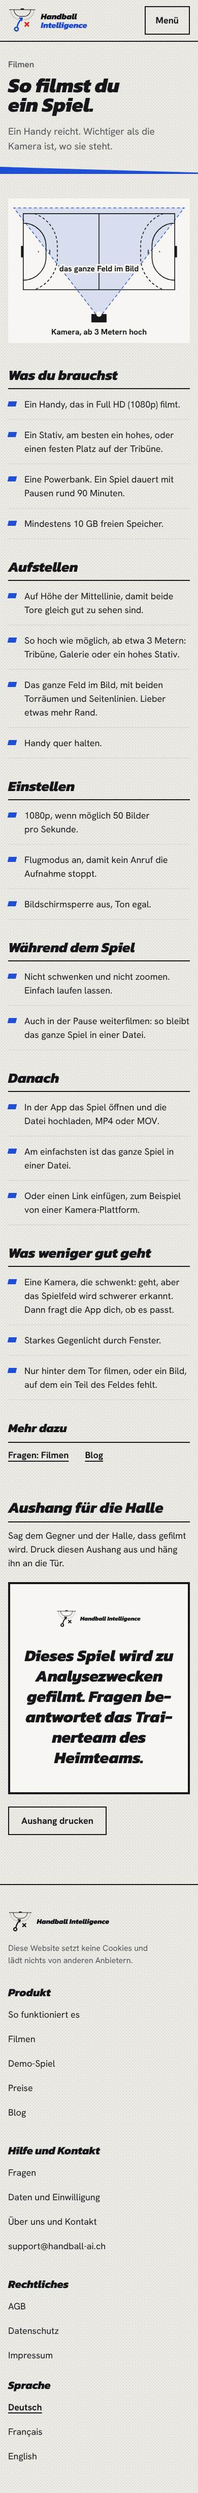
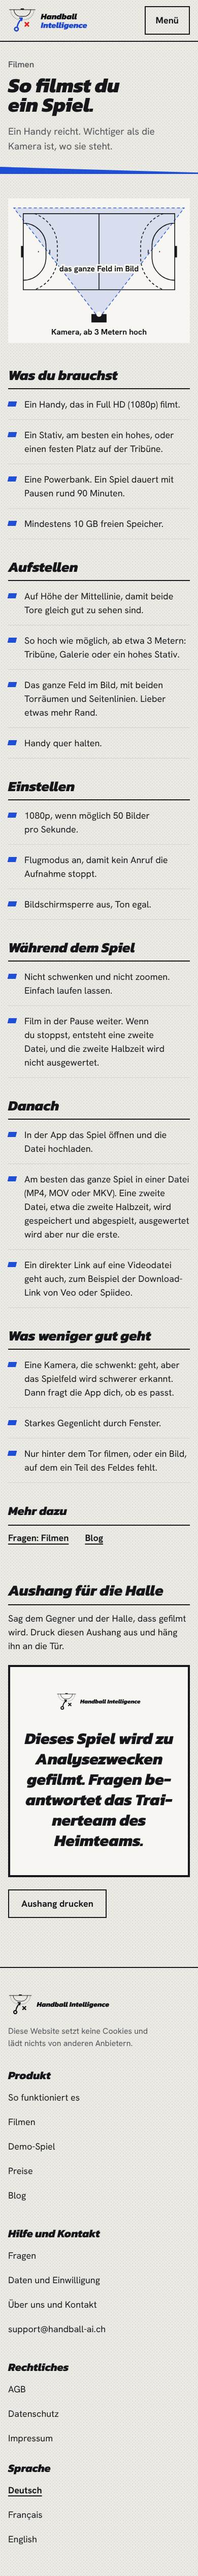
Site: the confirmed rule for video files everywhere
«Am besten das ganze Spiel in einer Datei (MP4, MOV oder MKV). Eine zweite Datei, etwa die zweite
Halbzeit, wird gespeichert und abgespielt, ausgewertet wird aber nur die erste.» on questions,
filming and both guides, in three languages; «Film in der Pause weiter …» on the filming page;
direct links to a video file (Veo, Spiideo); «Ein Spiel aus zwei Dateien auswerten» under «Das
noch nicht».

Claude-Session: https://claude.ai/code/session_01H3gogAnaG8pbb1EUQhspxs

diff --git a/apps/site/src/messages/fr.ts b/apps/site/src/messages/fr.ts
@@ -154,6 +154,7 @@ const fr: Messages = {
       "Reconnaître les arrêts et les tirs manqués. Tu les marques à la main si tu les veux.",
       "Reconnaître les buts à partir de l'image seule, sans feuille de match ni affichage du score.",
       "Mesurer exactement les distances parcourues. Avec une seule caméra, ce sont des estimations.",
+      "Analyser un match composé de deux fichiers.",
     ],
     note: "Ce qui est estimé est dessiné en pointillé et marqué « estimé ».",
   },
@@ -168,7 +169,7 @@ const fr: Messages = {
       },
       {
         title: "Téléverser",
-        text: "Dans l'app, tu choisis le fichier vidéo tel que le téléphone l'a enregistré, en général MP4 ou MOV. Si la connexion coupe, l'envoi reprend la fois suivante là où il s'était arrêté. Les gros fichiers passent mieux en wifi.",
+        text: "Dans l'app, tu choisis le fichier vidéo idéalement tout le match dans un seul fichier (MP4, MOV ou MKV). Si la connexion coupe, l'envoi reprend la fois suivante là où il s'était arrêté. Les gros fichiers passent mieux en wifi.",
       },
       {
         title: "L'analyse calcule",
@@ -230,15 +231,15 @@ const fr: Messages = {
         title: "Pendant le match",
         items: [
           "Ne pas faire de panoramique ni zoomer. Laisser tourner.",
-          "Continuer à filmer pendant la pause : ainsi tout le match reste dans un seul fichier.",
+          "Continue à filmer pendant la pause. Si tu arrêtes, un deuxième fichier se crée, et la deuxième mi-temps n'est pas analysée.",
         ],
       },
       {
         title: "Après",
         items: [
-          "Ouvrir le match dans l'app et téléverser le fichier, MP4 ou MOV.",
-          "Le plus simple : tout le match dans un seul fichier.",
-          "Ou coller un lien, par exemple d'une plateforme de caméra.",
+          "Ouvrir le match dans l'app et téléverser le fichier.",
+          "Le mieux : tout le match dans un seul fichier (MP4, MOV ou MKV). Un deuxième fichier, par exemple la deuxième mi-temps, est enregistré et peut être lu, mais seul le premier est analysé.",
+          "Un lien direct vers un fichier vidéo va aussi, par exemple le lien de téléchargement de Veo ou de Spiideo.",
         ],
       },
       {
@@ -335,7 +336,7 @@ const fr: Messages = {
     items: [
       { q: "Mon téléphone suffit-il ?", a: "Oui. Tout téléphone qui filme en Full HD (1080p) suffit. L'endroit compte plus que la caméra." },
       { q: "Où placer la caméra ?", a: "À hauteur de la ligne médiane, le plus haut possible, dès 3 mètres environ : tribune, galerie ou trépied haut. Tout le terrain doit être dans l'image, avec les deux zones de but." },
-      { q: "Quel fichier puis-je téléverser ?", a: "Le fichier vidéo tel que le téléphone l'enregistre, en général MP4 ou MOV. Le plus simple : tout le match dans un seul fichier. Un lien vers une plateforme de caméra va aussi." },
+      { q: "Quel fichier puis-je téléverser ?", a: "Le fichier vidéo tel que le téléphone l'enregistre. Le mieux : tout le match dans un seul fichier (MP4, MOV ou MKV). Un deuxième fichier, par exemple la deuxième mi-temps, est enregistré et peut être lu, mais seul le premier est analysé. Un lien direct vers un fichier vidéo va aussi, par exemple le lien de téléchargement de Veo ou de Spiideo." },
       { q: "Combien de temps dure l'analyse ?", a: "Cela dépend de la durée de la vidéo. Pas besoin de rester : tu reçois un e-mail quand les trois points sont prêts." },
       { q: "Dois-je saisir quelque chose à la main ?", a: "Non. Les trois points et les scènes arrivent sans rien taper. Là où l'analyse hésite, elle te pose une courte question. Tu marques les arrêts et les tirs manqués seulement si tu les veux." },
       { q: "Combien ça coûte ?", a: "Une équipe coûte CHF {month} par mois ou CHF {year} par an. Les prix ne sont pas encore définitifs." },

diff --git a/apps/site/src/messages/de.ts b/apps/site/src/messages/de.ts
@@ -152,6 +152,7 @@ const de = {
       "Paraden und Fehlwürfe erkennen. Die markierst du von Hand, wenn du sie willst.",
       "Tore allein aus dem Bild erkennen, wenn es weder Spielbericht noch Anzeige gibt.",
       "Laufdistanzen genau messen. Aus einer Kamera sind es Schätzungen.",
+      "Ein Spiel aus zwei Dateien auswerten.",
     ],
     note: "Was geschätzt ist, zeichnen wir gestrichelt und schreiben «geschätzt» dazu.",
   },
@@ -166,7 +167,7 @@ const de = {
       },
       {
         title: "Hochladen",
-        text: "In der App wählst du die Videodatei, so wie das Handy sie gespeichert hat, meist MP4 oder MOV. Bricht die Verbindung ab, geht der Upload beim nächsten Mal dort weiter. Grosse Dateien lädst du am besten im WLAN hoch.",
+        text: "In der App wählst du die Videodatei, am besten das ganze Spiel in einer Datei (MP4, MOV oder MKV). Bricht die Verbindung ab, geht der Upload beim nächsten Mal dort weiter. Grosse Dateien lädst du am besten im WLAN hoch.",
       },
       {
         title: "Die Analyse rechnet",
@@ -228,15 +229,15 @@ const de = {
         title: "Während dem Spiel",
         items: [
           "Nicht schwenken und nicht zoomen. Einfach laufen lassen.",
-          "Auch in der Pause weiterfilmen: so bleibt das ganze Spiel in einer Datei.",
+          "Film in der Pause weiter. Wenn du stoppst, entsteht eine zweite Datei, und die zweite Halbzeit wird nicht ausgewertet.",
         ],
       },
       {
         title: "Danach",
         items: [
-          "In der App das Spiel öffnen und die Datei hochladen, MP4 oder MOV.",
-          "Am einfachsten ist das ganze Spiel in einer Datei.",
-          "Oder einen Link einfügen, zum Beispiel von einer Kamera-Plattform.",
+          "In der App das Spiel öffnen und die Datei hochladen.",
+          "Am besten das ganze Spiel in einer Datei (MP4, MOV oder MKV). Eine zweite Datei, etwa die zweite Halbzeit, wird gespeichert und abgespielt, ausgewertet wird aber nur die erste.",
+          "Ein direkter Link auf eine Videodatei geht auch, zum Beispiel der Download-Link von Veo oder Spiideo.",
         ],
       },
       {
@@ -333,7 +334,7 @@ const de = {
     items: [
       { q: "Reicht mein Handy?", a: "Ja. Jedes Handy, das in Full HD (1080p) filmt, reicht. Wichtiger als die Kamera ist, wo sie steht." },
       { q: "Wo stelle ich die Kamera hin?", a: "Auf Höhe der Mittellinie, so hoch wie möglich, ab etwa 3 Metern: Tribüne, Galerie oder ein hohes Stativ. Das ganze Feld muss im Bild sein, mit beiden Torräumen." },
-      { q: "Welche Datei kann ich hochladen?", a: "Die Videodatei, so wie das Handy sie speichert, meist MP4 oder MOV. Am einfachsten ist das ganze Spiel in einer Datei. Ein Link zu einer Kamera-Plattform geht auch." },
+      { q: "Welche Datei kann ich hochladen?", a: "Die Videodatei, so wie das Handy sie speichert. Am besten das ganze Spiel in einer Datei (MP4, MOV oder MKV). Eine zweite Datei, etwa die zweite Halbzeit, wird gespeichert und abgespielt, ausgewertet wird aber nur die erste. Ein direkter Link auf eine Videodatei geht auch, zum Beispiel der Download-Link von Veo oder Spiideo." },
       { q: "Wie lange dauert die Analyse?", a: "Das hängt von der Länge des Videos ab. Du musst nicht dabeibleiben: du bekommst eine Mail, wenn die drei Dinge da sind." },
       { q: "Muss ich etwas von Hand eintragen?", a: "Nein. Die drei Dinge und die Szenen kommen ohne Eintippen. Wo die Analyse unsicher ist, fragt sie dich kurz. Paraden und Fehlwürfe markierst du nur, wenn du sie willst." },
       { q: "Was kostet es?", a: "Ein Team kostet CHF {month} im Monat oder CHF {year} im Jahr. Die Preise sind noch nicht endgültig." },

diff --git a/apps/site/src/messages/en.ts b/apps/site/src/messages/en.ts
@@ -154,6 +154,7 @@ const en: Messages = {
       "Detect saves and missed shots. You mark them by hand if you want them.",
       "Detect goals from the picture alone when there is neither a match report nor a score display.",
       "Measure running distances exactly. From one camera they are estimates.",
+      "Analyse a match made of two files.",
     ],
     note: "What is estimated, we draw dashed and label \"estimated\".",
   },
@@ -168,7 +169,7 @@ const en: Messages = {
       },
       {
         title: "Upload",
-        text: "In the app you choose the video file as the phone saved it, usually MP4 or MOV. If the connection drops, the upload continues where it stopped next time. Large files are best uploaded over wifi.",
+        text: "In the app you choose the video file ideally the whole match in one file (MP4, MOV or MKV). If the connection drops, the upload continues where it stopped next time. Large files are best uploaded over wifi.",
       },
       {
         title: "The analysis works",
@@ -230,15 +231,15 @@ const en: Messages = {
         title: "During the match",
         items: [
           "Do not pan and do not zoom. Just let it run.",
-          "Keep filming through half time: then the whole match is in one file.",
+          "Keep filming through half time. If you stop, a second file is made, and the second half is not analysed.",
         ],
       },
       {
         title: "Afterwards",
         items: [
-          "Open the match in the app and upload the file, MP4 or MOV.",
-          "The simplest is the whole match in one file.",
-          "Or paste a link, for example from a camera platform.",
+          "Open the match in the app and upload the file.",
+          "Best is the whole match in one file (MP4, MOV or MKV). A second file, such as the second half, is stored and can be played, but only the first file is analysed.",
+          "A direct link to a video file works too, for example the download link from Veo or Spiideo.",
         ],
       },
       {
@@ -335,7 +336,7 @@ const en: Messages = {
     items: [
       { q: "Is my phone good enough?", a: "Yes. Any phone that films in Full HD (1080p) is enough. Where it stands matters more than the camera." },
       { q: "Where do I put the camera?", a: "Level with the halfway line, as high as possible, from about 3 metres: stands, gallery or a tall tripod. The whole court must be in the picture, with both goal areas." },
-      { q: "Which file can I upload?", a: "The video file as the phone saves it, usually MP4 or MOV. The simplest is the whole match in one file. A link to a camera platform works too." },
+      { q: "Which file can I upload?", a: "The video file as the phone saves it. Best is the whole match in one file (MP4, MOV or MKV). A second file, such as the second half, is stored and can be played, but only the first file is analysed. A direct link to a video file works too, for example the download link from Veo or Spiideo." },
       { q: "How long does the analysis take?", a: "That depends on the length of the video. You need not stay: you get an e-mail when the three things are ready." },
       { q: "Do I have to enter anything by hand?", a: "No. The three things and the scenes come without typing. Where the analysis is unsure, it asks you briefly. You mark saves and missed shots only if you want them." },
       { q: "What does it cost?", a: "One team costs CHF {month} a month or CHF {year} a year. The prices are not final yet." },

diff --git a/docs/site/TEST.md b/docs/site/TEST.md
@@ -124,6 +124,14 @@ Nach `docs/ux-test/runde1/EINSTIEG.md` und der Rückmeldung der App-Session:
   Anleitung «Video hochladen»), bis die App-Session den einen richtigen Satz bestätigt.
 - Wiederholt: axe 0, kein Überlauf, grosse Schrift, Links.
 
+## Nachtrag 13. November, Dateien
+
+Der von der App bestätigte Satz steht jetzt bei den Fragen, auf der Filmseite und in den Anleitungen
+«Spiel richtig filmen» und «Video hochladen»: «Am besten das ganze Spiel in einer Datei (MP4, MOV
+oder MKV). Eine zweite Datei, etwa die zweite Halbzeit, wird gespeichert und abgespielt, ausgewertet
+wird aber nur die erste.» Dazu «Film in der Pause weiter …», der direkte Link auf eine Videodatei
+(Veo, Spiideo) und unter «Das noch nicht»: «Ein Spiel aus zwei Dateien auswerten.»
+
 ## Nicht geprüft
 
 - Echte Geräte (iPhone Safari, Android Chrome) und echte Bildschirmleser (VoiceOver, NVDA): nur

diff --git a/docs/site/KONZEPT.md b/docs/site/KONZEPT.md
@@ -199,6 +199,8 @@ den Prinzipien). «Wer wir sind» als Platzhalter «folgt vor dem Start» (offen
 - Paraden und Fehlwürfe erkennen. Die markierst du von Hand, wenn du sie willst.
 - Tore allein aus dem Bild erkennen, wenn es weder Spielbericht noch Anzeige gibt.
 - Laufdistanzen genau messen. Aus einer Kamera sind es Schätzungen.
+- Ein Spiel aus zwei Dateien auswerten (Nachtrag 13. November: die zweite Datei wird gespeichert
+  und abgespielt, ausgewertet wird nur die erste; so steht es in der App).
 
 Geschätztes ist gestrichelt und heisst «geschätzt».
 
